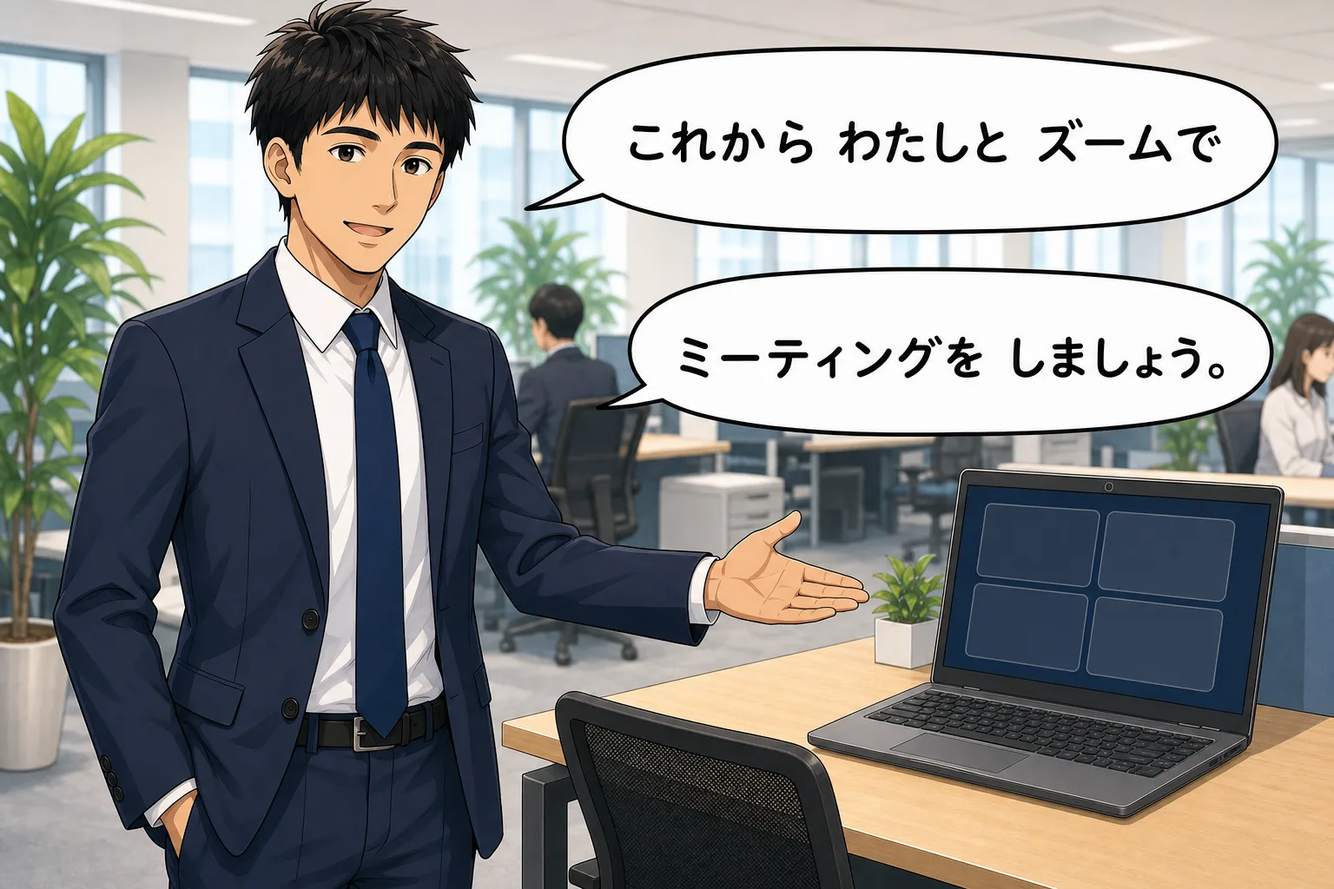
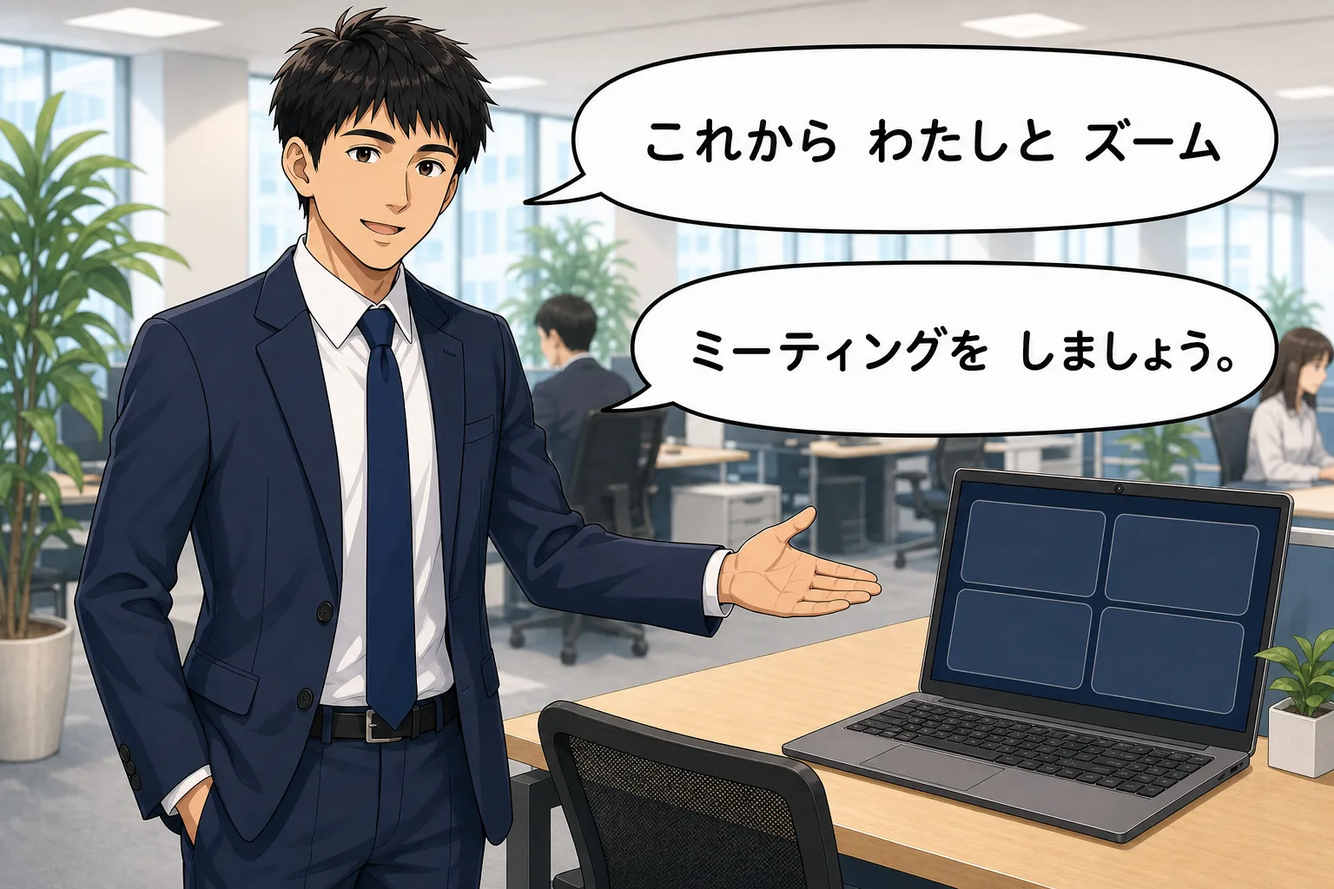
content(はじまり): Zoom の セリフを もらった文の まま に 戻す
「ズームで 話しましょう」に 言い換えて いたのを、いただいた 文の ままに した。

- セリフ: 「これから 私と Zoom」「ミーティングを しましょう。」
  （画面の 下に 出る 本文。私 には わたし の ルビが 付く）
- ことば: 「ズーム」→「Zoom」（本文に 出る 形と そろえる）
- 絵の 吹き出しは 焼き文字の 決まり（schema.ts の checkBakedText）で かなのみ
  なので「ズーム」。絵を 撮り直して 本文と そろえた

Zoom は ローマ字なので kanaOf では かなに ならない。この1行だけ
焼き文字を 手で「ズーム」と 書いている（他の 33行は 機械変換のまま）。

diff --git a/src/content/git-contents.generated.ts b/src/content/git-contents.generated.ts
@@ -41,7 +41,7 @@ export const GIT_CONTENTS: readonly unknown[] = [
   // content/listening/sample_asakai.json
   {"kind":"listening","id":"sample_asakai","title":"朝会（サンプル）","description":"リスニングの画面と聞き取りチェックの動作確認用です。","focus":"ヘンディさんが「こまっていること」を どう つたえるかに 注目して 聞いてみましょう。","participants":[{"id":"fujiki","name":"藤木","role":"リーダー","accent":"sky"},{"id":"hendy","name":"ヘンディ","role":"先輩","accent":"leaf"},{"id":"nyam","name":"ニャム","role":"同期","accent":"coral"}],"script":[{"speaker":"narration","text":"朝の9時です。チームの朝会がはじまります。"},{"speaker":"fujiki","text":"おはようございます。では、今日の予定を一人ずつお願いします。"},{"speaker":"hendy","text":"おはようございます。昨日はログイン画面のテストをしました。今日は残りのテストを終わらせます。"},{"speaker":"hendy","text":"一つ相談があります。サーバーのエラーで、テストが止まってしまいました。原因はまだ分かりません。"},{"speaker":"fujiki","text":"早く言ってくれて助かります。あとで一緒に見ましょう。ニャムさんはどうですか。"},{"speaker":"nyam","text":"おはようございます。私は今日、画面のデザインを直します。午後に共有します。"},{"speaker":"me","text":"おはようございます。今日は仕様書を読んで、分からないことを質問します。"}],"keywords":["テスト","サーバー","エラー","原因","相談"],"revealGoal":30,"furigana":[["朝会","あさかい"],["予定","よてい"],["昨日","きのう"],["画面","がめん"],["今日","きょう"],["残","のこ"],["終","お"],["相談","そうだん"],["原因","げんいん"],["分","わ"],["早","はや"],["言","い"],["助","たす"],["一緒","いっしょ"],["見","み"],["私","わたし"],["直","なお"],["午後","ごご"],["共有","きょうゆう"],["仕様書","しようしょ"],["読","よ"],["質問","しつもん"],["注目","ちゅうもく"],["聞","き"],["一人","ひとり"],["願","ねが"],["朝","あさ"],["聞き取り","ききとり"],["動作確認","どうさかくにん"],["用","よう"],["時","じ"],["一つ","ひとつ"],["止","と"],["藤木","ふじき"],["先輩","せんぱい"],["同期","どうき"]]},
   // content/manga/hajimari_manga.json
-  {"kind":"manga","id":"hajimari_manga","format":"story","title":"はじまりの ものがたり","description":"ヘンディさんからの メッセージです。パスポートと チケットを うけとりましょう。","characters":[{"id":"hendy","name":"ヘンディ","role":"先輩"}],"pages":[{"title":"手紙が とどきました","panels":[{"size":"wide","image":{"prompt":"a cream envelope with a navy wax seal bearing a double-peak M emblem, resting on warm stone steps; behind it the towers of Angkor Wat under a bright morning sky; a paper airplane flies far above. This panel has NO speech balloon and NO empty white bubble of any kind — the narration is placed by the app underneath the picture. This panel has NO speech balloon and NO empty white bubble of any kind — the narration is placed by the app underneath the picture. This panel has NO speech balloon and NO empty white bubble of any kind — the narration is placed by the app underneath the picture. This panel has NO speech balloon and NO empty white bubble of any kind — the narration is placed by the app underneath the picture.","status":"done","src":"/img/manga/hajimari_manga/p1c1.webp","refs":[]},"caption":"あなたの ところに、手紙が とどきました。","lines":[],"bakedText":[],"_reuse":"p1c1"},{"image":{"prompt":"close-up of a cream letter sheet lying half out of its opened envelope on a wooden desk, a fountain pen beside it; warm morning light; the letter paper is blank. No people. No readable text anywhere. This panel has NO speech balloon and NO empty white bubble of any kind — the narration is placed by the app underneath the picture.","status":"done","src":"/img/manga/hajimari_manga/p1c2.webp","refs":[]},"caption":"ネクストメイクの ヘンディさんからの 手紙です。ヘンディさんは、あなたの 先輩に なる 人です。","lines":[],"bakedText":[]},{"image":{"prompt":"Hendy sits at an office desk working on a laptop, one hand on the keyboard, looking at the screen with a calm focused smile; behind him a whiteboard covered with blank sticky notes and blank diagram shapes. This panel has NO speech balloon and NO empty white bubble of any kind — the narration is placed by the app underneath the picture. This panel has NO speech balloon and NO empty white bubble of any kind — the narration is placed by the app underneath the picture.","status":"done","src":"/img/manga/hajimari_manga/p1c3.webp","refs":["/img/characters/hendy/sheet.webp"]},"caption":"ヘンディさんは プロジェクトマネージャです。プログラマーでも あります。","lines":[],"bakedText":[],"_reuse":"p1c4"},{"image":{"prompt":"Hendy walks through a bright airport terminal pulling a suitcase, smiling; through the big window an airplane waits on the runway under a blue sky. This panel has NO speech balloon and NO empty white bubble of any kind — the narration is placed by the app underneath the picture. This panel has NO speech balloon and NO empty white bubble of any kind — the narration is placed by the app underneath the picture.","status":"done","src":"/img/manga/hajimari_manga/p1c4.webp","refs":["/img/characters/hendy/sheet.webp"]},"caption":"インドネシアから 日本に 来ました。日本語が とても 上手です。","lines":[],"bakedText":[],"_reuse":"p1c5"},{"size":"wide","image":{"prompt":"Hendy stands at the front of a bright university classroom in Cambodia waving warmly; several Cambodian students at desks smile and wave back; sunlight through tall windows. This panel has NO speech balloon and NO empty white bubble of any kind — the narration is placed by the app underneath the picture. This panel has NO speech balloon and NO empty white bubble of any kind — the narration is placed by the app underneath the picture.","status":"done","src":"/img/manga/hajimari_manga/p1c5.webp","refs":["/img/characters/hendy/sheet.webp"]},"caption":"AUPPにも 2回 来て くれました。","lines":[],"bakedText":[],"_reuse":"p1c6"}]},{"title":"手紙の なかみ","panels":[{"size":"wide","image":{"prompt":"Hendy, a friendly senior engineer, greets the viewer with a big welcoming smile and one raised hand, upper body facing the viewer; bright sky-blue background with soft clouds. Key panel of the scene.","status":"done","src":"/img/manga/hajimari_manga/p2c1.webp","refs":["/img/characters/hendy/sheet.webp"]},"lines":[{"speaker":"hendy","text":"こんにちは！ ヘンディです。"},{"speaker":"hendy","text":"よろしく おねがいします。"}],"bakedText":["こんにちは！ ヘンディです。","よろしく おねがいします。"]},{"image":{"prompt":"a bright university classroom in Cambodia in daylight; several Cambodian students studying Japanese together at desks with notebooks and textbooks; sunlight through the windows; hopeful and lively.","status":"done","src":"/img/manga/hajimari_manga/p2c2.webp","refs":[]},"lines":[{"speaker":"hendy","text":"みなさんは 1年間 日本語を"},{"speaker":"hendy","text":"たくさん 勉強しましたね。"}],"bakedText":["みなさんは 1ねんかん にほんごを","たくさん べんきょうしましたね。"],"_reuse":"p2c2"},{"image":{"prompt":"close-up of a student's desk; open notebooks full of handwriting practice (illegible scribbles, not readable characters), flashcards, a pencil, and a test sheet marked with a big red circle; warm afternoon light.","status":"done","src":"/img/manga/hajimari_manga/p2c3.webp","refs":[]},"lines":[{"speaker":"hendy","text":"ひらがな、カタカナ、漢字。"},{"speaker":"hendy","text":"テストも がんばりました。"}],"bakedText":["ひらがな、カタカナ、かんじ。","テストも がんばりました。"]},{"image":{"prompt":"a dreamy distant view of Tokyo with Tokyo Tower glowing warmly among office buildings, like a goal on the horizon; soft sparkling evening sky.","status":"done","src":"/img/manga/hajimari_manga/p2c4.webp","refs":[]},"lines":[{"speaker":"hendy","text":"つぎは 日本の 会社で"},{"speaker":"hendy","text":"はたらく ことが 目標です。"}],"bakedText":["つぎは にほんの かいしゃで","はたらく ことが もくひょうです。"]},{"image":{"prompt":"a young Cambodian student looking slightly worried, hugging a notebook, one small floating question-mark symbol above the head; plain soft background; gentle sympathetic mood.","status":"done","src":"/img/manga/hajimari_manga/p2c5.webp","refs":[]},"lines":[{"speaker":"hendy","text":"でも、仕事の 日本語は"},{"speaker":"hendy","text":"まだ わかりませんね。"}],"bakedText":["でも、しごとの にほんごは","まだ わかりませんね。"]},{"image":{"prompt":"Hendy faces the viewer with a calm reassuring smile, one open hand raised gently at chest height as if to say 'it's alright'; bright office softly blurred behind him.","status":"done","src":"/img/manga/hajimari_manga/p2c6.webp","refs":["/img/characters/hendy/sheet.webp"]},"lines":[{"speaker":"hendy","text":"だいじょうぶです。"},{"speaker":"hendy","text":"わたしたちが 教えます。"}],"bakedText":["だいじょうぶです。","わたしたちが おしえます。"]},{"image":{"prompt":"a Cambodian student raises one hand to ask a question at a desk while Hendy leans in and listens with a warm encouraging smile; bright classroom; other students working behind them.","status":"done","src":"/img/manga/hajimari_manga/p2c7.webp","refs":["/img/characters/hendy/sheet.webp"]},"lines":[{"speaker":"hendy","text":"わからない ことは"},{"speaker":"hendy","text":"はずかしがらずに 聞いて ください。"}],"bakedText":["わからない ことは","はずかしがらずに きいて ください。"]},{"size":"wide","image":{"prompt":"Hendy, in his navy business suit and tie, stands on the left beside a young Cambodian university student on the right — the student is clearly a student, not a businessman: a white short-sleeve school polo shirt, a canvas backpack on one shoulder, a notebook held under the arm, no jacket and no necktie. Both look ahead at a bright horizon and smile; a winding white road stretches forward across green fields under a wide sunny sky; hopeful mood.","status":"done","refs":["/img/characters/hendy/sheet.webp"],"src":"/img/manga/hajimari_manga/p2c8.webp"},"lines":[{"speaker":"hendy","text":"失敗も 勉強です。"},{"speaker":"hendy","text":"いっしょに 進みましょう。"}],"bakedText":["しっぱいも べんきょうです。","いっしょに すすみましょう。"]}]},{"title":"パスポートと チケット","panels":[{"image":{"prompt":"Hendy offers toward the viewer, with both hands, a navy-blue passport booklet and a yellow ticket; inviting gesture; plain warm background.","status":"done","src":"/img/manga/hajimari_manga/p3c1.webp","refs":["/img/characters/hendy/sheet.webp"]},"lines":[{"speaker":"hendy","text":"あなたに 2つ わたします。"},{"speaker":"hendy","text":"パスポートと チケットです。"}],"bakedText":["あなたに 2つ わたします。","パスポートと チケットです。"]},{"image":{"prompt":"close-up of a navy-blue passport lying on a wooden desk; on its cover, embossed in gold, the words 'Japanese IT Pathway' in clean simple capital letters and nothing else; a few soft sparkles; warm light.","status":"done","src":"/img/manga/hajimari_manga/p3c2.webp","refs":[]},"lines":[{"speaker":"hendy","text":"日本の いろいろな 会社で"},{"speaker":"hendy","text":"はたらく ための パスポートです。"}],"bakedText":["にほんの いろいろな かいしゃで","はたらく ための パスポートです。"]},{"size":"wide","image":{"prompt":"a wide colourful illustrated map path: several stylised countries in a row, each with a small icon floating above it — one shows three people talking in a circle, one shows a report document passing from hand to hand, one shows stacked building blocks of a software process, one shows two people shaking hands; a winding road runs through them all; a yellow ticket in the lower left corner; bright sky; no letters or country names anywhere.","status":"done","src":"/img/manga/hajimari_manga/p3c3.webp","refs":[]},"lines":[{"speaker":"hendy","text":"チケットで いろいろな 国へ。"},{"speaker":"hendy","text":"大切な ことを 勉強します。"}],"bakedText":["チケットで いろいろな くにへ。","たいせつな ことを べんきょうします。"]},{"image":{"prompt":"three friendly NexMax robots stand at different stops along a winding white road across green hills, each waving at the viewer; bright sky. Every robot must match the reference image exactly: rounded helmet-like head, wider than tall, light sky-blue (#A9D6F5) with soft shading (#7FB8E8); two small rounded ear pods on the sides of the head; a large white rounded face-screen covering most of the face, with a soft notch dipping at the top center; two black oval eyes, thin curved eyebrow marks on the helmet above the screen, small gentle smile; a small trapezoid torso in the same sky-blue bearing a navy (#004F8D) double-peak M mark; segmented ball-joint arms with round elbows and mitten hands; short segmented legs with rounded boots; cute chibi proportion, big head, about 2 heads tall. No antennae, no cat ears, no five-fingered hands.","refs":["/img/characters/nexmax/reference.png"],"status":"done","src":"/img/manga/hajimari_manga/p3c4.webp"},"lines":[{"speaker":"hendy","text":"それぞれの 国で ネクマックスが"},{"speaker":"hendy","text":"あなたを サポートします。"}],"bakedText":["それぞれの くにで ネクマックスが","あなたを サポートします。"]},{"size":"wide","image":{"prompt":"the end of the winding road arrives in Japan: Mount Fuji behind a warm glowing city skyline with cherry blossoms in the foreground; a bright welcoming sunrise; no letters anywhere.","status":"done","src":"/img/manga/hajimari_manga/p3c5.webp","refs":[]},"lines":[{"speaker":"hendy","text":"さいごは 日本です。"},{"speaker":"hendy","text":"あなたの 仕事が 待って います。"}],"bakedText":["さいごは にほんです。","あなたの しごとが まって います。"]}]},{"title":"ネクストメイクへ","panels":[{"image":{"prompt":"a bright split illustration of two Japanese city skylines side by side, with NO people at all: on the left a Tokyo skyline with a tall red-and-white lattice tower, on the right an Osaka skyline with a silver lattice tower and a wide river with arched bridges; in each city a small modern office building carries a simple navy double-peak M shape on its roof; clear blue sky; no letters anywhere.","status":"done","refs":[],"src":"/img/manga/hajimari_manga/p4c1.webp"},"lines":[{"speaker":"hendy","text":"日本の 東京と 大阪に"},{"speaker":"hendy","text":"ネクストメイクが あります。"}],"bakedText":["にほんの とうきょうと おおさかに","ネクストメイクが あります。"]},{"image":{"prompt":"the inside of a bright modern IT office: Hendy stands beside an empty desk with a computer and gestures warmly toward it, inviting the viewer to sit down and join; green plants and colleagues working softly blurred behind; no signboard, no logo, no letters anywhere.","status":"done","src":"/img/manga/hajimari_manga/p4c3.webp","refs":["/img/characters/hendy/sheet.webp"]},"lines":[{"speaker":"hendy","text":"社員に なった つもりで"},{"speaker":"hendy","text":"いっしょに はたらきましょう。"}],"bakedText":["しゃいんに なった つもりで","いっしょに はたらきましょう。"]},{"image":{"prompt":"the same bright modern IT office as the previous panel: Hendy stands beside a desk and gestures with one open hand toward an open laptop on the desk, smiling at the viewer as if inviting them to join a video call; the laptop screen shows a simple video-call layout — a dark blue interface with four empty rounded tiles and a small round camera lens shape, with no writing, no icons with letters and no faces on the screen; green plants and colleagues working softly blurred behind; keep the upper right area clear and empty for two speech balloons; no signboard, no logo, no letters anywhere in the office.","status":"done","src":"/img/manga/hajimari_manga/p4c5.webp","refs":["/img/characters/hendy/sheet.webp"]},"lines":[{"speaker":"hendy","text":"これから 私と ズームで"},{"speaker":"hendy","text":"ミーティングを しましょう。"}],"bakedText":["これから わたしと ズームで","ミーティングを しましょう。"]},{"image":{"prompt":"the same bright modern IT office as the previous panel: a bust-up of Hendy facing the viewer, leaning slightly forward with both hands open at chest height in a warm welcoming gesture, bright encouraging smile, eyes looking straight at the viewer; desks, computers and green plants softly blurred behind him; keep the upper right area clear and empty for one speech balloon; no signboard, no logo, no letters anywhere in the office.","status":"done","src":"/img/manga/hajimari_manga/p4c6.webp","refs":["/img/characters/hendy/sheet.webp"]},"lines":[{"speaker":"hendy","text":"あなたの ことを 教えて ください！"}],"bakedText":["あなたの ことを おしえて ください！"]},{"size":"wide","image":{"prompt":"inside a bright modern IT office, a warm group shot facing the viewer, seven colleagues smiling and waving at the camera. From the left: (1) a man in his late twenties, lean athletic build, very short cropped black hair, lightly tanned skin drawn completely smooth with no nasolabial folds and no wrinkles, youthful rounded jaw, wide cheerful open-mouth smile, navy blazer (#1F2A44) worn open over a plain white crew-neck T-shirt; (2) a man in his forties, ordinary build with normal shoulders, black hair with volume on top and a soft fringe falling across the forehead, oval face with gently rounded cheeks and a slightly soft jawline, narrow gentle eyes, calm friendly closed-lip smile, navy blazer (#1F2A44) worn open over a plain white crew-neck T-shirt; (3) in the middle, a man in his late twenties, slim, short black hair slightly tousled with soft spiky tips and a loose fringe, gentle smile, navy single-breasted suit with a crisp white dress shirt and a solid navy necktie; (4) a woman in her mid twenties, slim, long light-brown hair falling past the shoulders with a soft straight fringe, warm closed-lip smile, cream-white chunky-knit turtleneck sweater (#F0E6D2) and beige wide trousers; (5) a woman in her early twenties, slim, long straight black hair tied in a low ponytail with a straight fringe across the forehead, bright open smile, navy short-sleeve polo shirt (#26355B) and a long black pleated skirt; (6) a woman in her mid twenties, slim, long brown hair with lighter ombre ends, side-parted with no fringe, bright open smile, light grey knit cardigan (#B9B9B9) with round pearl buttons over a matching grey top and a cream-white long skirt; (7) seated at a desk in front of the group, a man in his mid twenties, medium build, wavy messy black hair with volume, black rectangular thick-rimmed glasses, calm gentle smile, dark green pullover hoodie (#2E4034); desks, computers and green plants behind them; warm daylight; keep the upper right area clear and empty for one speech balloon; no signboard, no logo, no letters anywhere in the office.","status":"done","refs":["/img/characters/yukawa/sheet.webp","/img/characters/okuda/sheet.webp","/img/characters/nishida/sheet.webp","/img/characters/risa/sheet.webp","/img/characters/hendy/sheet.webp","/img/characters/matsui/sheet.webp","/img/characters/fujiki/sheet.webp"],"src":"/img/manga/hajimari_manga/p4c4.webp"},"lines":[{"speaker":"hendy","text":"みんなで 待って います！"}],"bakedText":["みんなで まって います！"]}]}],"furigana":[["年間","ねんかん"],["日本語","にほんご"],["日本","にほん"],["勉強","べんきょう"],["会社","かいしゃ"],["場所","ばしょ"],["名前","なまえ"],["先輩","せんぱい"],["知","し"],["見","み"],["書","か"],["行","い"],["待","ま"],["手紙","てがみ"],["地図","ちず"],["上","うえ"],["目標","もくひょう"],["仕事","しごと"],["漢字","かんじ"],["上手","じょうず"],["国","くに"],["窓","まど"],["助","たす"],["来","き"],["2回","にかい"],["1年間","いちねんかん"],["大阪","おおさか"],["回","かい"],["東京","とうきょう"],["社員","しゃいん"],["失敗","しっぱい"],["大切","たいせつ"],["進","すす"],["教","おし"],["聞","き"],["人","ひと"],["私","わたし"]],"castIds":["hendy"],"speechInImage":true,"vocab":[{"term":"手紙","reading":"てがみ","meaning":"letter — おくる かみ"},{"term":"先輩","reading":"せんぱい","meaning":"senior colleague（さきに いた ひと）"},{"term":"プロジェクトマネージャ","reading":"ぷろじぇくとまねーじゃ","meaning":"project manager — しごとを まとめる ひと"},{"term":"プログラマー","reading":"ぷろぐらまー","meaning":"programmer — コンピューターを つくる ひと"},{"term":"上手","reading":"じょうず","meaning":"good at it"},{"term":"勉強","reading":"べんきょう","meaning":"study"},{"term":"漢字","reading":"かんじ","meaning":"kanji（むずかしい もじ）"},{"term":"テスト","reading":"てすと","meaning":"test / exam"},{"term":"会社","reading":"かいしゃ","meaning":"company"},{"term":"目標","reading":"もくひょう","meaning":"goal — めざす こと"},{"term":"仕事","reading":"しごと","meaning":"work / job"},{"term":"教","reading":"おし","meaning":"to teach（教えます）"},{"term":"聞","reading":"き","meaning":"to ask / to listen（聞きます）"},{"term":"失敗","reading":"しっぱい","meaning":"mistake / failure"},{"term":"進","reading":"すす","meaning":"to go forward（進みます）"},{"term":"パスポート","reading":"ぱすぽーと","meaning":"passport — くにへ 行く ときに いる もの"},{"term":"チケット","reading":"ちけっと","meaning":"ticket"},{"term":"国","reading":"くに","meaning":"country"},{"term":"大切","reading":"たいせつ","meaning":"important"},{"term":"ネクマックス","reading":"ねくまっくす","meaning":"NexMax — あなたを たすける ロボット"},{"term":"サポート","reading":"さぽーと","meaning":"support — たすける こと"},{"term":"社員","reading":"しゃいん","meaning":"employee — 会社で はたらく ひと"},{"term":"ズーム","reading":"ずーむ","meaning":"Zoom — インターネットで かおを みて はなす アプリ"},{"term":"ミーティング","reading":"みーてぃんぐ","meaning":"meeting — あつまって はなす こと"}]},
+  {"kind":"manga","id":"hajimari_manga","format":"story","title":"はじまりの ものがたり","description":"ヘンディさんからの メッセージです。パスポートと チケットを うけとりましょう。","characters":[{"id":"hendy","name":"ヘンディ","role":"先輩"}],"pages":[{"title":"手紙が とどきました","panels":[{"size":"wide","image":{"prompt":"a cream envelope with a navy wax seal bearing a double-peak M emblem, resting on warm stone steps; behind it the towers of Angkor Wat under a bright morning sky; a paper airplane flies far above. This panel has NO speech balloon and NO empty white bubble of any kind — the narration is placed by the app underneath the picture. This panel has NO speech balloon and NO empty white bubble of any kind — the narration is placed by the app underneath the picture. This panel has NO speech balloon and NO empty white bubble of any kind — the narration is placed by the app underneath the picture. This panel has NO speech balloon and NO empty white bubble of any kind — the narration is placed by the app underneath the picture.","status":"done","src":"/img/manga/hajimari_manga/p1c1.webp","refs":[]},"caption":"あなたの ところに、手紙が とどきました。","lines":[],"bakedText":[],"_reuse":"p1c1"},{"image":{"prompt":"close-up of a cream letter sheet lying half out of its opened envelope on a wooden desk, a fountain pen beside it; warm morning light; the letter paper is blank. No people. No readable text anywhere. This panel has NO speech balloon and NO empty white bubble of any kind — the narration is placed by the app underneath the picture.","status":"done","src":"/img/manga/hajimari_manga/p1c2.webp","refs":[]},"caption":"ネクストメイクの ヘンディさんからの 手紙です。ヘンディさんは、あなたの 先輩に なる 人です。","lines":[],"bakedText":[]},{"image":{"prompt":"Hendy sits at an office desk working on a laptop, one hand on the keyboard, looking at the screen with a calm focused smile; behind him a whiteboard covered with blank sticky notes and blank diagram shapes. This panel has NO speech balloon and NO empty white bubble of any kind — the narration is placed by the app underneath the picture. This panel has NO speech balloon and NO empty white bubble of any kind — the narration is placed by the app underneath the picture.","status":"done","src":"/img/manga/hajimari_manga/p1c3.webp","refs":["/img/characters/hendy/sheet.webp"]},"caption":"ヘンディさんは プロジェクトマネージャです。プログラマーでも あります。","lines":[],"bakedText":[],"_reuse":"p1c4"},{"image":{"prompt":"Hendy walks through a bright airport terminal pulling a suitcase, smiling; through the big window an airplane waits on the runway under a blue sky. This panel has NO speech balloon and NO empty white bubble of any kind — the narration is placed by the app underneath the picture. This panel has NO speech balloon and NO empty white bubble of any kind — the narration is placed by the app underneath the picture.","status":"done","src":"/img/manga/hajimari_manga/p1c4.webp","refs":["/img/characters/hendy/sheet.webp"]},"caption":"インドネシアから 日本に 来ました。日本語が とても 上手です。","lines":[],"bakedText":[],"_reuse":"p1c5"},{"size":"wide","image":{"prompt":"Hendy stands at the front of a bright university classroom in Cambodia waving warmly; several Cambodian students at desks smile and wave back; sunlight through tall windows. This panel has NO speech balloon and NO empty white bubble of any kind — the narration is placed by the app underneath the picture. This panel has NO speech balloon and NO empty white bubble of any kind — the narration is placed by the app underneath the picture.","status":"done","src":"/img/manga/hajimari_manga/p1c5.webp","refs":["/img/characters/hendy/sheet.webp"]},"caption":"AUPPにも 2回 来て くれました。","lines":[],"bakedText":[],"_reuse":"p1c6"}]},{"title":"手紙の なかみ","panels":[{"size":"wide","image":{"prompt":"Hendy, a friendly senior engineer, greets the viewer with a big welcoming smile and one raised hand, upper body facing the viewer; bright sky-blue background with soft clouds. Key panel of the scene.","status":"done","src":"/img/manga/hajimari_manga/p2c1.webp","refs":["/img/characters/hendy/sheet.webp"]},"lines":[{"speaker":"hendy","text":"こんにちは！ ヘンディです。"},{"speaker":"hendy","text":"よろしく おねがいします。"}],"bakedText":["こんにちは！ ヘンディです。","よろしく おねがいします。"]},{"image":{"prompt":"a bright university classroom in Cambodia in daylight; several Cambodian students studying Japanese together at desks with notebooks and textbooks; sunlight through the windows; hopeful and lively.","status":"done","src":"/img/manga/hajimari_manga/p2c2.webp","refs":[]},"lines":[{"speaker":"hendy","text":"みなさんは 1年間 日本語を"},{"speaker":"hendy","text":"たくさん 勉強しましたね。"}],"bakedText":["みなさんは 1ねんかん にほんごを","たくさん べんきょうしましたね。"],"_reuse":"p2c2"},{"image":{"prompt":"close-up of a student's desk; open notebooks full of handwriting practice (illegible scribbles, not readable characters), flashcards, a pencil, and a test sheet marked with a big red circle; warm afternoon light.","status":"done","src":"/img/manga/hajimari_manga/p2c3.webp","refs":[]},"lines":[{"speaker":"hendy","text":"ひらがな、カタカナ、漢字。"},{"speaker":"hendy","text":"テストも がんばりました。"}],"bakedText":["ひらがな、カタカナ、かんじ。","テストも がんばりました。"]},{"image":{"prompt":"a dreamy distant view of Tokyo with Tokyo Tower glowing warmly among office buildings, like a goal on the horizon; soft sparkling evening sky.","status":"done","src":"/img/manga/hajimari_manga/p2c4.webp","refs":[]},"lines":[{"speaker":"hendy","text":"つぎは 日本の 会社で"},{"speaker":"hendy","text":"はたらく ことが 目標です。"}],"bakedText":["つぎは にほんの かいしゃで","はたらく ことが もくひょうです。"]},{"image":{"prompt":"a young Cambodian student looking slightly worried, hugging a notebook, one small floating question-mark symbol above the head; plain soft background; gentle sympathetic mood.","status":"done","src":"/img/manga/hajimari_manga/p2c5.webp","refs":[]},"lines":[{"speaker":"hendy","text":"でも、仕事の 日本語は"},{"speaker":"hendy","text":"まだ わかりませんね。"}],"bakedText":["でも、しごとの にほんごは","まだ わかりませんね。"]},{"image":{"prompt":"Hendy faces the viewer with a calm reassuring smile, one open hand raised gently at chest height as if to say 'it's alright'; bright office softly blurred behind him.","status":"done","src":"/img/manga/hajimari_manga/p2c6.webp","refs":["/img/characters/hendy/sheet.webp"]},"lines":[{"speaker":"hendy","text":"だいじょうぶです。"},{"speaker":"hendy","text":"わたしたちが 教えます。"}],"bakedText":["だいじょうぶです。","わたしたちが おしえます。"]},{"image":{"prompt":"a Cambodian student raises one hand to ask a question at a desk while Hendy leans in and listens with a warm encouraging smile; bright classroom; other students working behind them.","status":"done","src":"/img/manga/hajimari_manga/p2c7.webp","refs":["/img/characters/hendy/sheet.webp"]},"lines":[{"speaker":"hendy","text":"わからない ことは"},{"speaker":"hendy","text":"はずかしがらずに 聞いて ください。"}],"bakedText":["わからない ことは","はずかしがらずに きいて ください。"]},{"size":"wide","image":{"prompt":"Hendy, in his navy business suit and tie, stands on the left beside a young Cambodian university student on the right — the student is clearly a student, not a businessman: a white short-sleeve school polo shirt, a canvas backpack on one shoulder, a notebook held under the arm, no jacket and no necktie. Both look ahead at a bright horizon and smile; a winding white road stretches forward across green fields under a wide sunny sky; hopeful mood.","status":"done","refs":["/img/characters/hendy/sheet.webp"],"src":"/img/manga/hajimari_manga/p2c8.webp"},"lines":[{"speaker":"hendy","text":"失敗も 勉強です。"},{"speaker":"hendy","text":"いっしょに 進みましょう。"}],"bakedText":["しっぱいも べんきょうです。","いっしょに すすみましょう。"]}]},{"title":"パスポートと チケット","panels":[{"image":{"prompt":"Hendy offers toward the viewer, with both hands, a navy-blue passport booklet and a yellow ticket; inviting gesture; plain warm background.","status":"done","src":"/img/manga/hajimari_manga/p3c1.webp","refs":["/img/characters/hendy/sheet.webp"]},"lines":[{"speaker":"hendy","text":"あなたに 2つ わたします。"},{"speaker":"hendy","text":"パスポートと チケットです。"}],"bakedText":["あなたに 2つ わたします。","パスポートと チケットです。"]},{"image":{"prompt":"close-up of a navy-blue passport lying on a wooden desk; on its cover, embossed in gold, the words 'Japanese IT Pathway' in clean simple capital letters and nothing else; a few soft sparkles; warm light.","status":"done","src":"/img/manga/hajimari_manga/p3c2.webp","refs":[]},"lines":[{"speaker":"hendy","text":"日本の いろいろな 会社で"},{"speaker":"hendy","text":"はたらく ための パスポートです。"}],"bakedText":["にほんの いろいろな かいしゃで","はたらく ための パスポートです。"]},{"size":"wide","image":{"prompt":"a wide colourful illustrated map path: several stylised countries in a row, each with a small icon floating above it — one shows three people talking in a circle, one shows a report document passing from hand to hand, one shows stacked building blocks of a software process, one shows two people shaking hands; a winding road runs through them all; a yellow ticket in the lower left corner; bright sky; no letters or country names anywhere.","status":"done","src":"/img/manga/hajimari_manga/p3c3.webp","refs":[]},"lines":[{"speaker":"hendy","text":"チケットで いろいろな 国へ。"},{"speaker":"hendy","text":"大切な ことを 勉強します。"}],"bakedText":["チケットで いろいろな くにへ。","たいせつな ことを べんきょうします。"]},{"image":{"prompt":"three friendly NexMax robots stand at different stops along a winding white road across green hills, each waving at the viewer; bright sky. Every robot must match the reference image exactly: rounded helmet-like head, wider than tall, light sky-blue (#A9D6F5) with soft shading (#7FB8E8); two small rounded ear pods on the sides of the head; a large white rounded face-screen covering most of the face, with a soft notch dipping at the top center; two black oval eyes, thin curved eyebrow marks on the helmet above the screen, small gentle smile; a small trapezoid torso in the same sky-blue bearing a navy (#004F8D) double-peak M mark; segmented ball-joint arms with round elbows and mitten hands; short segmented legs with rounded boots; cute chibi proportion, big head, about 2 heads tall. No antennae, no cat ears, no five-fingered hands.","refs":["/img/characters/nexmax/reference.png"],"status":"done","src":"/img/manga/hajimari_manga/p3c4.webp"},"lines":[{"speaker":"hendy","text":"それぞれの 国で ネクマックスが"},{"speaker":"hendy","text":"あなたを サポートします。"}],"bakedText":["それぞれの くにで ネクマックスが","あなたを サポートします。"]},{"size":"wide","image":{"prompt":"the end of the winding road arrives in Japan: Mount Fuji behind a warm glowing city skyline with cherry blossoms in the foreground; a bright welcoming sunrise; no letters anywhere.","status":"done","src":"/img/manga/hajimari_manga/p3c5.webp","refs":[]},"lines":[{"speaker":"hendy","text":"さいごは 日本です。"},{"speaker":"hendy","text":"あなたの 仕事が 待って います。"}],"bakedText":["さいごは にほんです。","あなたの しごとが まって います。"]}]},{"title":"ネクストメイクへ","panels":[{"image":{"prompt":"a bright split illustration of two Japanese city skylines side by side, with NO people at all: on the left a Tokyo skyline with a tall red-and-white lattice tower, on the right an Osaka skyline with a silver lattice tower and a wide river with arched bridges; in each city a small modern office building carries a simple navy double-peak M shape on its roof; clear blue sky; no letters anywhere.","status":"done","refs":[],"src":"/img/manga/hajimari_manga/p4c1.webp"},"lines":[{"speaker":"hendy","text":"日本の 東京と 大阪に"},{"speaker":"hendy","text":"ネクストメイクが あります。"}],"bakedText":["にほんの とうきょうと おおさかに","ネクストメイクが あります。"]},{"image":{"prompt":"the inside of a bright modern IT office: Hendy stands beside an empty desk with a computer and gestures warmly toward it, inviting the viewer to sit down and join; green plants and colleagues working softly blurred behind; no signboard, no logo, no letters anywhere.","status":"done","src":"/img/manga/hajimari_manga/p4c3.webp","refs":["/img/characters/hendy/sheet.webp"]},"lines":[{"speaker":"hendy","text":"社員に なった つもりで"},{"speaker":"hendy","text":"いっしょに はたらきましょう。"}],"bakedText":["しゃいんに なった つもりで","いっしょに はたらきましょう。"]},{"image":{"prompt":"the same bright modern IT office as the previous panel: Hendy stands beside a desk and gestures with one open hand toward an open laptop on the desk, smiling at the viewer as if inviting them to join a video call; the laptop screen shows a simple video-call layout — a dark blue interface with four empty rounded tiles and a small round camera lens shape, with no writing, no icons with letters and no faces on the screen; green plants and colleagues working softly blurred behind; keep the upper right area clear and empty for two speech balloons; no signboard, no logo, no letters anywhere in the office.","status":"done","src":"/img/manga/hajimari_manga/p4c5.webp","refs":["/img/characters/hendy/sheet.webp"]},"lines":[{"speaker":"hendy","text":"これから 私と Zoom"},{"speaker":"hendy","text":"ミーティングを しましょう。"}],"bakedText":["これから わたしと ズーム","ミーティングを しましょう。"]},{"image":{"prompt":"the same bright modern IT office as the previous panel: a bust-up of Hendy facing the viewer, leaning slightly forward with both hands open at chest height in a warm welcoming gesture, bright encouraging smile, eyes looking straight at the viewer; desks, computers and green plants softly blurred behind him; keep the upper right area clear and empty for one speech balloon; no signboard, no logo, no letters anywhere in the office.","status":"done","src":"/img/manga/hajimari_manga/p4c6.webp","refs":["/img/characters/hendy/sheet.webp"]},"lines":[{"speaker":"hendy","text":"あなたの ことを 教えて ください！"}],"bakedText":["あなたの ことを おしえて ください！"]},{"size":"wide","image":{"prompt":"inside a bright modern IT office, a warm group shot facing the viewer, seven colleagues smiling and waving at the camera. From the left: (1) a man in his late twenties, lean athletic build, very short cropped black hair, lightly tanned skin drawn completely smooth with no nasolabial folds and no wrinkles, youthful rounded jaw, wide cheerful open-mouth smile, navy blazer (#1F2A44) worn open over a plain white crew-neck T-shirt; (2) a man in his forties, ordinary build with normal shoulders, black hair with volume on top and a soft fringe falling across the forehead, oval face with gently rounded cheeks and a slightly soft jawline, narrow gentle eyes, calm friendly closed-lip smile, navy blazer (#1F2A44) worn open over a plain white crew-neck T-shirt; (3) in the middle, a man in his late twenties, slim, short black hair slightly tousled with soft spiky tips and a loose fringe, gentle smile, navy single-breasted suit with a crisp white dress shirt and a solid navy necktie; (4) a woman in her mid twenties, slim, long light-brown hair falling past the shoulders with a soft straight fringe, warm closed-lip smile, cream-white chunky-knit turtleneck sweater (#F0E6D2) and beige wide trousers; (5) a woman in her early twenties, slim, long straight black hair tied in a low ponytail with a straight fringe across the forehead, bright open smile, navy short-sleeve polo shirt (#26355B) and a long black pleated skirt; (6) a woman in her mid twenties, slim, long brown hair with lighter ombre ends, side-parted with no fringe, bright open smile, light grey knit cardigan (#B9B9B9) with round pearl buttons over a matching grey top and a cream-white long skirt; (7) seated at a desk in front of the group, a man in his mid twenties, medium build, wavy messy black hair with volume, black rectangular thick-rimmed glasses, calm gentle smile, dark green pullover hoodie (#2E4034); desks, computers and green plants behind them; warm daylight; keep the upper right area clear and empty for one speech balloon; no signboard, no logo, no letters anywhere in the office.","status":"done","refs":["/img/characters/yukawa/sheet.webp","/img/characters/okuda/sheet.webp","/img/characters/nishida/sheet.webp","/img/characters/risa/sheet.webp","/img/characters/hendy/sheet.webp","/img/characters/matsui/sheet.webp","/img/characters/fujiki/sheet.webp"],"src":"/img/manga/hajimari_manga/p4c4.webp"},"lines":[{"speaker":"hendy","text":"みんなで 待って います！"}],"bakedText":["みんなで まって います！"]}]}],"furigana":[["年間","ねんかん"],["日本語","にほんご"],["日本","にほん"],["勉強","べんきょう"],["会社","かいしゃ"],["場所","ばしょ"],["名前","なまえ"],["先輩","せんぱい"],["知","し"],["見","み"],["書","か"],["行","い"],["待","ま"],["手紙","てがみ"],["地図","ちず"],["上","うえ"],["目標","もくひょう"],["仕事","しごと"],["漢字","かんじ"],["上手","じょうず"],["国","くに"],["窓","まど"],["助","たす"],["来","き"],["2回","にかい"],["1年間","いちねんかん"],["大阪","おおさか"],["回","かい"],["東京","とうきょう"],["社員","しゃいん"],["失敗","しっぱい"],["大切","たいせつ"],["進","すす"],["教","おし"],["聞","き"],["人","ひと"],["私","わたし"]],"castIds":["hendy"],"speechInImage":true,"vocab":[{"term":"手紙","reading":"てがみ","meaning":"letter — おくる かみ"},{"term":"先輩","reading":"せんぱい","meaning":"senior colleague（さきに いた ひと）"},{"term":"プロジェクトマネージャ","reading":"ぷろじぇくとまねーじゃ","meaning":"project manager — しごとを まとめる ひと"},{"term":"プログラマー","reading":"ぷろぐらまー","meaning":"programmer — コンピューターを つくる ひと"},{"term":"上手","reading":"じょうず","meaning":"good at it"},{"term":"勉強","reading":"べんきょう","meaning":"study"},{"term":"漢字","reading":"かんじ","meaning":"kanji（むずかしい もじ）"},{"term":"テスト","reading":"てすと","meaning":"test / exam"},{"term":"会社","reading":"かいしゃ","meaning":"company"},{"term":"目標","reading":"もくひょう","meaning":"goal — めざす こと"},{"term":"仕事","reading":"しごと","meaning":"work / job"},{"term":"教","reading":"おし","meaning":"to teach（教えます）"},{"term":"聞","reading":"き","meaning":"to ask / to listen（聞きます）"},{"term":"失敗","reading":"しっぱい","meaning":"mistake / failure"},{"term":"進","reading":"すす","meaning":"to go forward（進みます）"},{"term":"パスポート","reading":"ぱすぽーと","meaning":"passport — くにへ 行く ときに いる もの"},{"term":"チケット","reading":"ちけっと","meaning":"ticket"},{"term":"国","reading":"くに","meaning":"country"},{"term":"大切","reading":"たいせつ","meaning":"important"},{"term":"ネクマックス","reading":"ねくまっくす","meaning":"NexMax — あなたを たすける ロボット"},{"term":"サポート","reading":"さぽーと","meaning":"support — たすける こと"},{"term":"社員","reading":"しゃいん","meaning":"employee — 会社で はたらく ひと"},{"term":"Zoom","reading":"ずーむ","meaning":"Zoom — インターネットで かおを みて はなす アプリ"},{"term":"ミーティング","reading":"みーてぃんぐ","meaning":"meeting — あつまって はなす こと"}]},
   // content/manga/m2_asakai_manga.json
   {"kind":"manga","id":"m2-asakai-manga","format":"yonkoma","title":"はじめての 朝会","description":"はじめての 朝会です。報告の コツを 見つけましょう。","characters":[{"id":"hendy","name":"ヘンディ","role":"先輩"},{"id":"nyam","name":"ニャム","role":"同期"}],"furigana":[["朝会","あさかい"],["報告","ほうこく"],["結論","けつろん"],["昨日","きのう"],["今日","きょう"],["先輩","せんぱい"],["同期","どうき"],["朝","あさ"],["時","じ"],["来","き"],["見","み"],["話","はなし"],["長","なが"],["言","い"],["終","お"],["直","なお"],["分","わ"]],"vocab":[{"term":"朝会","reading":"あさかい","meaning":"あさに する みじかい かいぎ"},{"term":"報告","reading":"ほうこく","meaning":"したことを つたえること"},{"term":"結論","reading":"けつろん","meaning":"いちばん 言いたい こと"}],"pages":[{"panels":[{"size":"normal","image":{"prompt":"Anime manga panel, no readable text. A bright modern software office in the morning, large window with soft sunlight, potted plant, whiteboard. A friendly Southeast Asian senior engineer man (Hendy, short black hair, light blue shirt, ID lanyard) stands beside the whiteboard and smiles at his small team during a short stand-up meeting. Next to him a young Southeast Asian junior engineer man (Nyam, short black hair swept up off the forehead, coral cardigan over a cream button-down shirt) stands holding a small notebook, shoulders tight, a little nervous. Medium wide shot, clean line art, flat cel shading, soft pastel palette of sky blue, cream and coral, rounded friendly shapes. Keep empty space at the bottom of the frame. No text, no letters, no numbers, no signage, no speech bubbles, no readable text.","refs":["/img/characters/hendy/sheet.webp","/img/characters/nyam/sheet.webp"],"status":"done","src":"/img/manga/m2-asakai-manga/panel1.webp"},"lines":[{"speaker":"narration","text":"朝の9時。はじめての朝会がはじまります。"},{"speaker":"hendy","text":"おはようございます。では、朝会をはじめましょう。"}]},{"size":"normal","image":{"prompt":"Anime manga panel, no readable text. Same office, same morning light, same characters and clothing as the previous panel. Close shot on the young junior engineer man (Nyam, short black hair swept up off the forehead, coral cardigan over a cream button-down shirt) talking on and on, counting on his fingers, eyes wandering upward as he tries to remember every detail. Behind him the senior engineer (Hendy, light blue shirt) listens patiently with a small polite smile and a tiny sweat drop. Clean line art, flat cel shading, soft pastel sky blue and cream palette. Keep empty space at the bottom of the frame. No text, no letters, no numbers, no signage, no speech bubbles, no readable text.","refs":["/img/characters/nyam/sheet.webp","/img/characters/hendy/sheet.webp"],"status":"done","src":"/img/manga/m2-asakai-manga/panel2.webp"},"lines":[{"speaker":"nyam","text":"えっと、昨日は9時に来て、メールを見て、それから…。"},{"speaker":"hendy","text":"うん、うん。それで、どうなりましたか。"}],"caption":"話がどんどん長くなります。"},{"size":"normal","image":{"prompt":"Anime manga panel, no readable text. Same office and characters as the previous panels. The senior engineer (Hendy, short black hair, light blue shirt, ID lanyard) leans in kindly and holds up three fingers, giving gentle advice. The junior engineer man (Nyam, short black hair swept up off the forehead, coral cardigan over a cream button-down shirt) looks up at him and listens, pen resting on his notebook. Medium close two-shot, warm and encouraging mood. Clean line art, flat cel shading, soft pastel sky blue, cream and coral palette. Keep empty space at the bottom of the frame. No text, no letters, no numbers, no signage, no speech bubbles, no readable text.","refs":["/img/characters/hendy/sheet.webp","/img/characters/nyam/sheet.webp"],"status":"done","src":"/img/manga/m2-asakai-manga/panel3.webp"},"lines":[{"speaker":"hendy","text":"ニャムさん、結論から言ってみましょう。"},{"speaker":"hendy","text":"きのう、きょう、こまりごと。この3つだけでいいですよ。"}]},{"size":"normal","image":{"prompt":"Anime manga panel, no readable text. Same office and characters as the previous panels. The junior engineer man (Nyam, short black hair swept up off the forehead, coral cardigan over a cream button-down shirt) now stands straight and speaks with a bright confident smile, notebook closed in one hand. The senior engineer (Hendy, light blue shirt) gives a happy thumbs up beside him, and a teammate in the background smiles too. Cheerful morning light, small sparkle effects around Nyam. Clean line art, flat cel shading, soft pastel sky blue, cream and coral palette. Keep empty space at the bottom of the frame. No text, no letters, no numbers, no signage, no speech bubbles, no readable text.","refs":["/img/characters/nyam/sheet.webp","/img/characters/hendy/sheet.webp"],"status":"done","src":"/img/manga/m2-asakai-manga/panel4.webp"},"lines":[{"speaker":"nyam","text":"昨日はテストが終わりました。今日はバグを直します。"},{"speaker":"hendy","text":"いいですね。とてもよく分かりました。"}],"caption":"報告はみじかく、結論から。"}]}]},
   // content/meetings/hajimari_meeting.json
